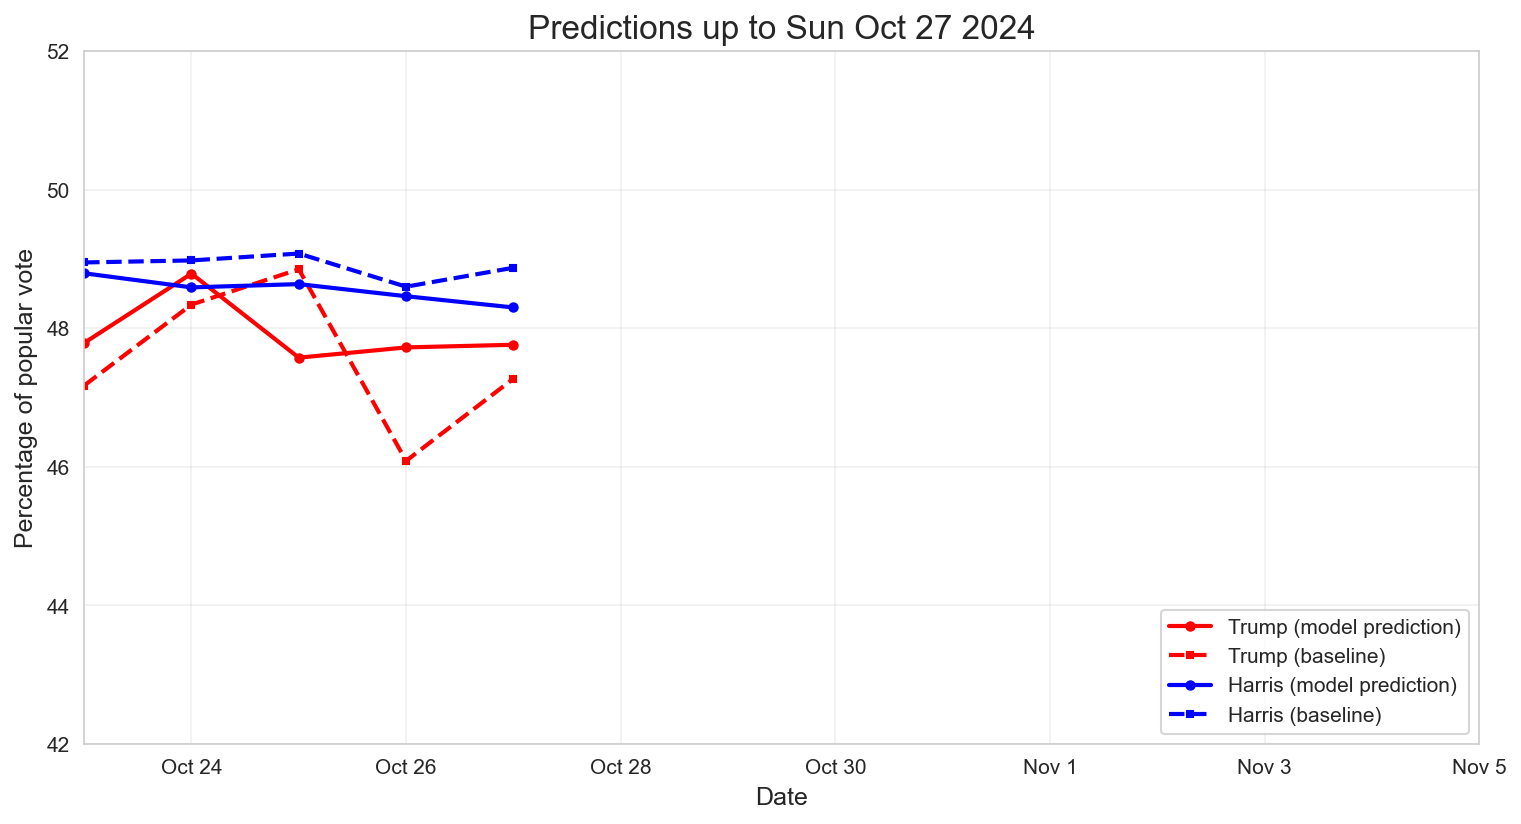
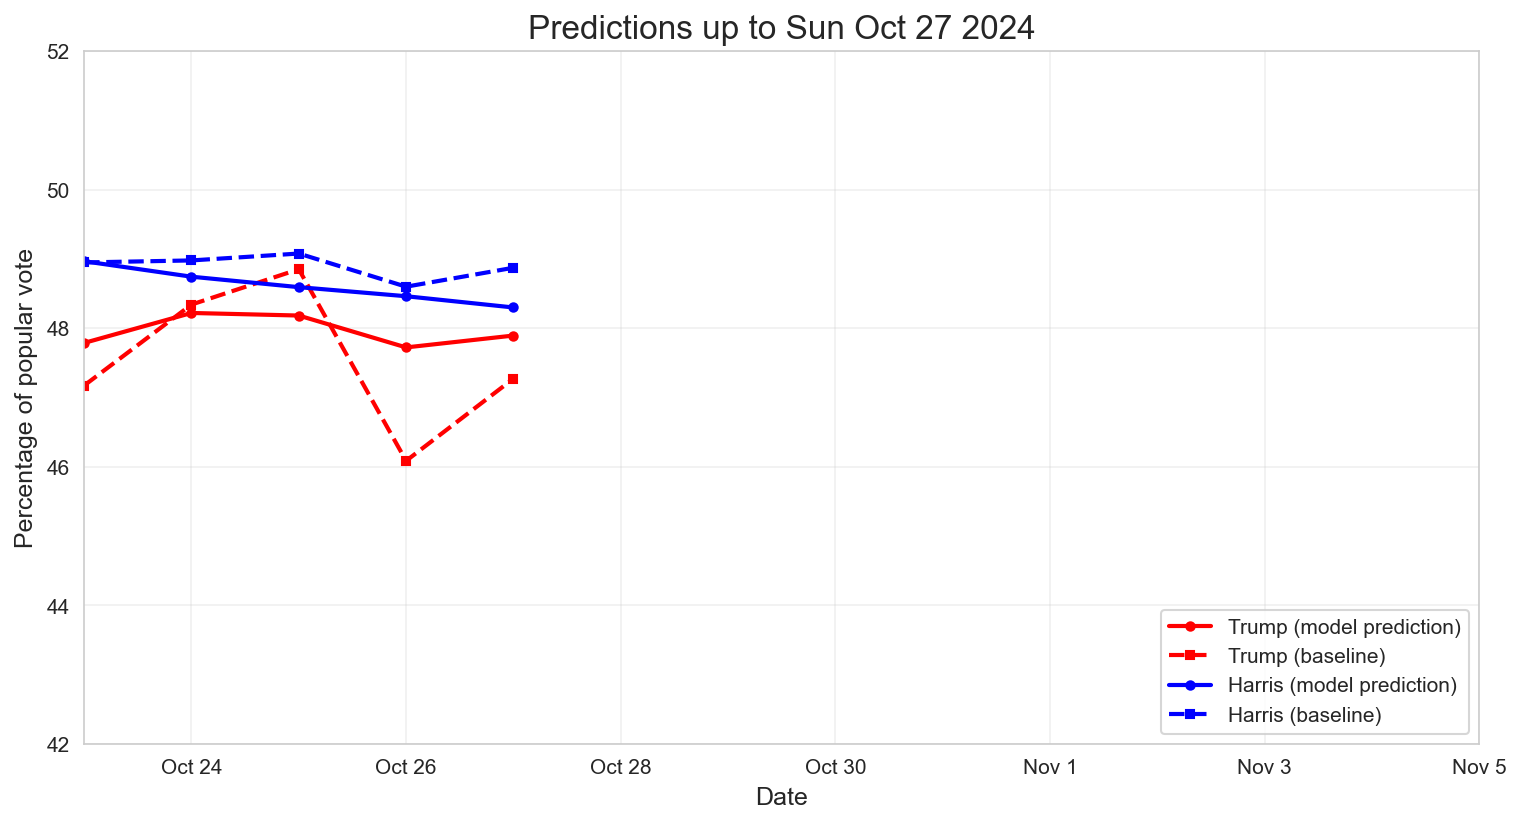
Standard grid search parameters.

Changed region(s): [[0.0618, 0.3034, 0.2472, 0.4248], [0.1854, 0.3944, 0.3399, 0.4551]]

diff --git a/index.html b/index.html
@@ -68,7 +68,7 @@
             predictions. The predictions also include who will win which swing states (listed with their abbreviations).
             The rest of the page consists of previous days' forecasts, followed by information about my methodology.
         </p>
-        <p>Finally, you can view the source for my predictions and plots for each day in <a
+        <p>You can view the source for my predictions as well as plots for each day in <a
                 href="https://github.com/wh33les/us-election-forecast-2024">my GitHub repository for this project.</a>
         </p>
     </div>
@@ -82,14 +82,14 @@
                 <td><span style="font-size: 18px"><u>FiveThirtyEight</u></span></td>
             </tr>
             <tr>
-                <td style="color:Red;">Trump: 268 (47.4%) AZ GA NC NV</td>
-                <td style="color:Red;"><!--<span style="font-size: 18px"><b>-->Trump: 268 (49.8%) AZ GA NC
+                <td style="color:Red;">Trump: 262 (47.5%) AZ GA NC</td>
+                <td style="color:Red;"><!--<span style="font-size: 18px"><b>-->Trump: 262 (47.7%) AZ GA NC
                     NV<!--</b></span>--></td>
                 <td style="color:Red;"><span style="font-size: 18px"><b>Trump (50.3% chance)</b></span></td>
             </tr>
             <tr>
-                <td style="color:Blue;"><span style="font-size: 18px"><b>Harris: 270 (48.4%) MI WI PA</b></span></td>
-                <td style="color:Blue;"><span style="font-size: 18px"><b>Harris: 270 (47.8%) MI WI PA</b></span></td>
+                <td style="color:Blue;"><span style="font-size: 18px"><b>Harris: 276 (48.5%) MI WI PA NV</b></span></td>
+                <td style="color:Blue;"><span style="font-size: 18px"><b>Harris: 276 (48.1%) MI WI PA NV</b></span></td>
                 <td style="color:Blue;"><!--<span style="font-size: 18px"><b>-->Harris (49.5% chance)<!--</b></span>-->
                 </td>
             </tr>
@@ -137,10 +137,7 @@
                     error,
                     so even though my predictions about the swing states have always been based on who's leading in the
                     polls, they
-                    probably aren't very helpful. For one thing, I think it's far more likely that Harris will win the
-                    popular vote and Trump will win the electoral college, but for the past few days my algorithm has
-                    been
-                    predicting the other way around.</li>
+                    probably aren't very helpful.</li>
             </ul>
             Thanks for visiting this site and keeping up with it. I may return with a few more thoughts once the outcome
             of
@@ -260,7 +257,9 @@
                 \end{align}
             </div>
             where \(\alpha\) and \(\beta\) are hyperparameters between \(0\) and \(1\).</p>
-            <p>I ran a grid search to tune my hyperparameters, optimizing the MASE on the forecast over the
+            <p>I ran a standard grid search to tune my hyperparameters (\(\alpha\in(0.05,0.5)\),
+                \(\beta\in(0.05,0.3)\)),
+                optimizing the MASE on the forecast over the
                 test set relative to the MASE of the na&iuml;ve forecast on the training set over an
                 equivalent horizon. I used all my polling data minus the last week as training data, with five
                 cross-validation splits and

diff --git a/preprocess_data.py b/preprocess_data.py
@@ -18,22 +18,22 @@ def enhanced_prefilter_polling_data():
     original_file = "data/raw_polling_data.csv"
     backup_file = "data/raw_polling_data_backup.csv"
 
-    print("🚀 Enhanced pre-filtering of polling data...")
+    print("Enhanced pre-filtering of polling data...")
     print("=" * 50)
 
     # 1. Create backup
-    print("📋 Creating backup...")
+    print("Creating backup...")
     shutil.copy2(original_file, backup_file)
-    print(f"✅ Backup saved as: {backup_file}")
+    print(f"Backup saved as: {backup_file}")
 
     # 2. Analyze original file
-    print("📁 Analyzing original data...")
+    print("Analyzing original data...")
     original_size_mb = Path(original_file).stat().st_size / (1024 * 1024)
 
     # Read just first row to get column info
     sample = pd.read_csv(original_file, nrows=1)
     total_columns = len(sample.columns)
-    print(f"📊 Original: {total_columns} columns, {original_size_mb:.1f} MB")
+    print(f"Original: {total_columns} columns, {original_size_mb:.1f} MB")
 
     # 3. Define columns we actually need
     essential_columns = [
@@ -45,12 +45,12 @@ def enhanced_prefilter_polling_data():
         "population",  # Used for population filtering (lv, rv, a)
     ]
 
-    print(f"🎯 Keeping {len(essential_columns)}/{total_columns} columns:")
+    print(f"Keeping {len(essential_columns)}/{total_columns} columns:")
     for col in essential_columns:
         print(f"   • {col}")
 
     # 4. Read data with only essential columns (first optimization!)
-    print(f"\n📥 Loading data with column selection...")
+    print(f"\nLoading data with column selection...")
     df = pd.read_csv(original_file, usecols=essential_columns)
     print(f"   Column reduction: {total_columns} → {len(essential_columns)} columns")
 
@@ -62,7 +62,7 @@ def enhanced_prefilter_polling_data():
     biden_dropout = config.earliest_available_data_parsed
 
     # 6. Apply row filters
-    print(f"\n🎯 Applying row filters...")
+    print(f"\n Applying row filters...")
 
     # Filter by date (Biden dropout and after)
     df_filtered = df[df["end_date"] >= biden_dropout].copy()
@@ -82,7 +82,7 @@ def enhanced_prefilter_polling_data():
     row_reduction = (1 - final_rows / original_rows) * 100
     col_reduction = (1 - len(essential_columns) / total_columns) * 100
 
-    print(f"\n📉 Optimization summary:")
+    print(f"\n Optimization summary:")
     print(
         f"   Row reduction: {original_rows:,} -> {final_rows:,} ({row_reduction:.1f}% reduction)"
     )
@@ -91,18 +91,18 @@ def enhanced_prefilter_polling_data():
     )
 
     # 8. Save optimized file
-    print(f"\n💾 Saving optimized file...")
+    print(f"\n Saving optimized file...")
     df_filtered.to_csv(original_file, index=False)
 
     new_size_mb = Path(original_file).stat().st_size / (1024 * 1024)
     total_reduction = (1 - new_size_mb / original_size_mb) * 100
 
     print(
-        f"✅ File size: {original_size_mb:.1f} MB → {new_size_mb:.1f} MB ({total_reduction:.1f}% reduction)"
+        f" File size: {original_size_mb:.1f} MB → {new_size_mb:.1f} MB ({total_reduction:.1f}% reduction)"
     )
 
     # 9. Show data quality preserved for pipeline
-    print(f"\n🔧 Data preserved for pipeline filtering:")
+    print(f"\n Data preserved for pipeline filtering:")
     if len(df_filtered) > 0:
         population_types = df_filtered["population"].value_counts()
         print(f"   Population types: {list(population_types.index)}")
@@ -122,7 +122,7 @@ def enhanced_prefilter_polling_data():
         print(f"   Date range: {date_range}")
 
     # 10. Show sample of optimized data
-    print(f"\n📋 Sample of optimized data:")
+    print(f"\n Sample of optimized data:")
     if len(df_filtered) > 0:
         print(df_filtered.head(3).to_string())
 
@@ -154,13 +154,13 @@ BACKUP LOCATION: {backup_file}
     with open("data/PREFILTER_SUMMARY.txt", "w", encoding="utf-8") as f:
         f.write(summary_content)
 
-    print(f"\n🎉 Enhanced pre-filtering complete!")
+    print(f"\n Enhanced pre-filtering complete!")
     print(
-        f"📊 Total reduction: {total_reduction:.1f}% ({original_size_mb:.1f} MB -> {new_size_mb:.1f} MB)"
+        f" Total reduction: {total_reduction:.1f}% ({original_size_mb:.1f} MB -> {new_size_mb:.1f} MB)"
     )
-    print(f"🔧 Your pipeline will work exactly the same, just much faster!")
-    print(f"📁 Backup: {backup_file}")
-    print(f"📄 Summary: data/PREFILTER_SUMMARY.txt")
+    print(f" Your pipeline will work exactly the same, just much faster!")
+    print(f" Backup: {backup_file}")
+    print(f" Summary: data/PREFILTER_SUMMARY.txt")
 
 
 if __name__ == "__main__":

diff --git a/src/models/holt_forecaster.py b/src/models/holt_forecaster.py
@@ -53,17 +53,26 @@ class HoltElectionForecaster:
         """Perform grid search for optimal Holt smoothing parameters with baseline comparison."""
         logger.info("Starting hyperparameter grid search with baseline evaluation...")
 
-        grid_numbers = self.model_config.grid_numbers
+        alpha_grid_numbers = self.model_config.alpha_grid_numbers
+        beta_grid_numbers = self.model_config.beta_grid_numbers
         kfold = TimeSeriesSplit(
             n_splits=self.model_config.n_splits, test_size=self.model_config.test_size
         )
 
         # Initialize error arrays for Holt models
         exp_mase_trump = np.zeros(
-            (self.model_config.n_splits, len(grid_numbers), len(grid_numbers))
+            (
+                self.model_config.n_splits,
+                len(alpha_grid_numbers),
+                len(beta_grid_numbers),
+            )
         )
         exp_mase_harris = np.zeros(
-            (self.model_config.n_splits, len(grid_numbers), len(grid_numbers))
+            (
+                self.model_config.n_splits,
+                len(alpha_grid_numbers),
+                len(beta_grid_numbers),
+            )
         )
 
         # Initialize arrays for baseline models
@@ -98,9 +107,9 @@ class HoltElectionForecaster:
 
             # Holt model grid search
             alpha_idx = 0
-            for alpha in grid_numbers:
+            for alpha in alpha_grid_numbers:
                 beta_idx = 0
-                for beta in grid_numbers:
+                for beta in beta_grid_numbers:
                     try:
                         # Fit Trump model
                         trump_model = Holt(trump_data.daily_average.values).fit(
@@ -148,14 +157,14 @@ class HoltElectionForecaster:
         # Include baseline MASE in results
         best_params = {
             "trump": {
-                "alpha": grid_numbers[trump_best_idx[0]],
-                "beta": grid_numbers[trump_best_idx[1]],
+                "alpha": alpha_grid_numbers[trump_best_idx[0]],
+                "beta": beta_grid_numbers[trump_best_idx[1]],
                 "mase": np.mean(exp_mase_trump, axis=0)[trump_best_idx],
                 "baseline_mase": np.mean(baseline_mase_trump),
             },
             "harris": {
-                "alpha": grid_numbers[harris_best_idx[0]],
-                "beta": grid_numbers[harris_best_idx[1]],
+                "alpha": alpha_grid_numbers[harris_best_idx[0]],
+                "beta": beta_grid_numbers[harris_best_idx[1]],
                 "mase": np.mean(exp_mase_harris, axis=0)[harris_best_idx],
                 "baseline_mase": np.mean(baseline_mase_harris),
             },

diff --git a/src/config.py b/src/config.py
@@ -44,7 +44,7 @@ class PlotConfig:
     model_marker: str = "o"
     baseline_marker: str = "s"
     model_marker_size: int = 4
-    baseline_marker_size: int = 3
+    baseline_marker_size: int = 4
 
     # Line styles
     polling_line_style: str = "-"
@@ -55,7 +55,7 @@ class PlotConfig:
 
     # Annotation positions (as tuples of (x, y) coordinates)
     hyperparameter_annotation_pos: Tuple[str, float] = ("2024-07-25", 42.3)
-    mase_annotation_pos: Tuple[str, float] = ("2024-08-17", 42.3)
+    mase_annotation_pos: Tuple[str, float] = ("2024-08-17", 42.73)
 
     # Legend settings
     legend_location: str = "lower right"
@@ -126,9 +126,12 @@ class ModelConfig:
     test_size: int = 7
 
     # Grid search parameters for Holt smoothing
-    grid_min: float = 0.0
-    grid_max: float = 0.5
-    grid_step: float = 0.1
+    alpha_grid_min: float = 0.05
+    alpha_grid_max: float = 0.5
+    alpha_grid_step: float = 0.05
+    beta_grid_min: float = 0.05
+    beta_grid_max: float = 0.3
+    beta_grid_step: float = 0.05
 
     # Electoral college settings
     swing_state_electoral_votes: int = 93
@@ -136,9 +139,14 @@ class ModelConfig:
     harris_safe_electoral_votes: int = 226
 
     @property
-    def grid_numbers(self):
+    def alpha_grid_numbers(self):
         """Generate grid search parameter range."""
-        return np.arange(self.grid_min, self.grid_max, self.grid_step)
+        return np.arange(self.alpha_grid_min, self.alpha_grid_max, self.alpha_grid_step)
+
+    @property
+    def beta_grid_numbers(self):
+        """Generate grid search parameter range."""
+        return np.arange(self.beta_grid_min, self.beta_grid_max, self.beta_grid_step)
 
 
 @dataclass

diff --git a/main.py b/main.py
@@ -65,7 +65,8 @@ def main():
     if args.debug:
         logger.debug("Loading configuration objects...")
         logger.debug(
-            f"Model config: grid_min={model_config.grid_min}, grid_max={model_config.grid_max}"
+            f"Model config: alpha_grid_min={model_config.alpha_grid_min}, alpha_grid_max={model_config.alpha_grid_max}"
+            f"beta_grid_min={model_config.beta_grid_min}, beta_grid_max={model_config.beta_grid_max}"
         )
         logger.debug(
             f"Data config: candidates={data_config.candidates}, swing_states={data_config.swing_states}"

diff --git a/readme.md b/readme.md
@@ -4,13 +4,13 @@ A data-driven forecasting system that predicts daily outcomes for the 2024 U.S. 
 
 This project implements Holt (double) exponential smoothing with rigorous cross-validation to process FiveThirtyEight's polling data and generate both popular vote predictions and electoral college outcomes.
 
-__Final Results:__ Achieved forecasts within 2% of actual election results and correctly predicted winners for 47 out of 50 states.
+__Final Results:__ Achieved forecasts within 2.5% of actual election results and correctly predicted winners for 46 out of 50 states.
 
 ## Project Overview
 
-Election outcome predictions for each day from October 23 through November 5, 2024. Uses Holt (double) exponential smoothing with a random walk with drift baseline and rigorous cross-validation.
+Election outcome predictions for each day from Oct 23 through Nov 5, 2024. Uses Holt (double) exponential smoothing with a random walk with drift baseline and 5-fold cross-validation that optimizes MASE.
 
-Polling data from FiveThirtyEight (`data/raw_polling_data.csv`) is filtered by polling date (starts at Jul 21 when Biden dropped out), likely voters, and swing state and national polls, and FiveThirtyEight's feature POLLSCORE.  Training data is the average polling percentage for each day.  
+Polling data from FiveThirtyEight (`data/raw_polling_data.csv`) is filtered by polling date (starts at Jul 21 when Biden dropped out), likely voters, swing state and national polls, and FiveThirtyEight's feature POLLSCORE (`preprocess_data.py`).  Training data is the average polling percentage for each day.  
 
 [__Project web page:__](https://wh33les.github.io/us-election-forecast-2024/)
 
@@ -18,15 +18,16 @@ Polling data from FiveThirtyEight (`data/raw_polling_data.csv`) is filtered by p
 
 ### Time Series Modeling
 - Holt (double) exponential smoothing with separate /(/alpha)/ and /(/beta/) parameters for each candidate.
-- Grid search optimization using time series cr
+- Grid search optimization -- standard grid, configurable in `src/config.py`.
 - Random walk with drift model for performance benchmarking.
 - Strict temporal validation ensuring no future information was used.
 
 ### Data Processing Pipeline
-- **Source**: FiveThirtyEigth polling data in `data/raw_polling_data.csv` and swing state averages (no longer available on FiveThirtyEight's site).
+- **Source**: FiveThirtyEight polling data in `data/raw_polling_data.csv` and swing state averages (no longer available on FiveThirtyEight's site).
 - **Filtering**: Likely voters only, negative POLLSCORE ratings, post-Biden withdrawal polls, only swing states and national polls.
 - **Aggregation**: Daily polling averages with exponential smoothing.
 - **Validation**: 5-fold cross-validation with 7-day holdout periods.
+- **Quick updates**: Creates cache files so the raw data is not unnecessarily reprocessed for each prediction (`data/forecast_history.csv`, `data/polling_averages_cache.csv`).
 
 ### Electoral College Calculation
 - **Swing states**: Arizona, Georgia, Michigan, Nevada, North Carolina, Pennsylvania, Wisconsin.
@@ -38,14 +39,24 @@ Polling data from FiveThirtyEight (`data/raw_polling_data.csv`) is filtered by p
 python main.py
 ```
 
-Optional attributes are `--date`, which gives the forecast for a single date, and `--start` and `--end` for a range of dates.  Date format is flexible (e.g., 10-23, Oct 23, etc.). 
+Optional attributes are `--date`, which gives the forecast for a single date, and `--start` and `--end` for a range of dates.  Date format is flexible (10-23, Oct 23, etc.).  The default is to forecast all dates from Oct 23 to Nov 5.
 
 ## Visualizations
 
 The system generates two types of visualizations:
 
-- **Daily Forecast Plots**: Shows polling averages, model predictions, and baseline comparisons.
-- **Historical Performance**: Tracks how predictions evolved over the final two weeks.
+- **Daily forecast plots**: Shows polling averages, model predictions, and baseline comparisons (`outputs/forecast_images`).
+- **Historical performance**: Tracks how predictions evolved over the final two weeks (`outputs/previous_forecasts`).
+
+## Skills Demonstrated
+This project showcases key machine learning engineering competencies:
+
+- Advanced statistical modeling: Implementation of sophisticated time series forecasting techniques.
+- Data pipeline engineering: End-to-end ML pipeline from data collection to web deployment.
+- Model validation: Rigorous statistical methodology with proper cross-validation techniques.
+- Production code architecture: Modular, maintainable design with proper configuration management (`src/`).
+- Data visualization: Professional-quality plots optimized for stakeholder communication.
+= Real-world application: Solving complex prediction problems with measurable business impact.
 
 ## Future Enhancements
 
@@ -60,6 +71,6 @@ The system generates two types of visualizations:
 **Ashley K. W. Warren**  
 *Mathematician → Machine Learning Engineer*
 
-- 🔗 [LinkedIn](https://www.linkedin.com/in/ashleykwwarren)
-- 🌐 [Website](https://wh33les.github.io)
-- 📧 [ashleykwwarren@gmail.com](mailto:ashleykwwarren@gmail.com)
+- [LinkedIn](https://www.linkedin.com/in/ashleykwwarren)
+- [Website](https://wh33les.github.io)
+- [ashleykwwarren@gmail.com](mailto:ashleykwwarren@gmail.com)
